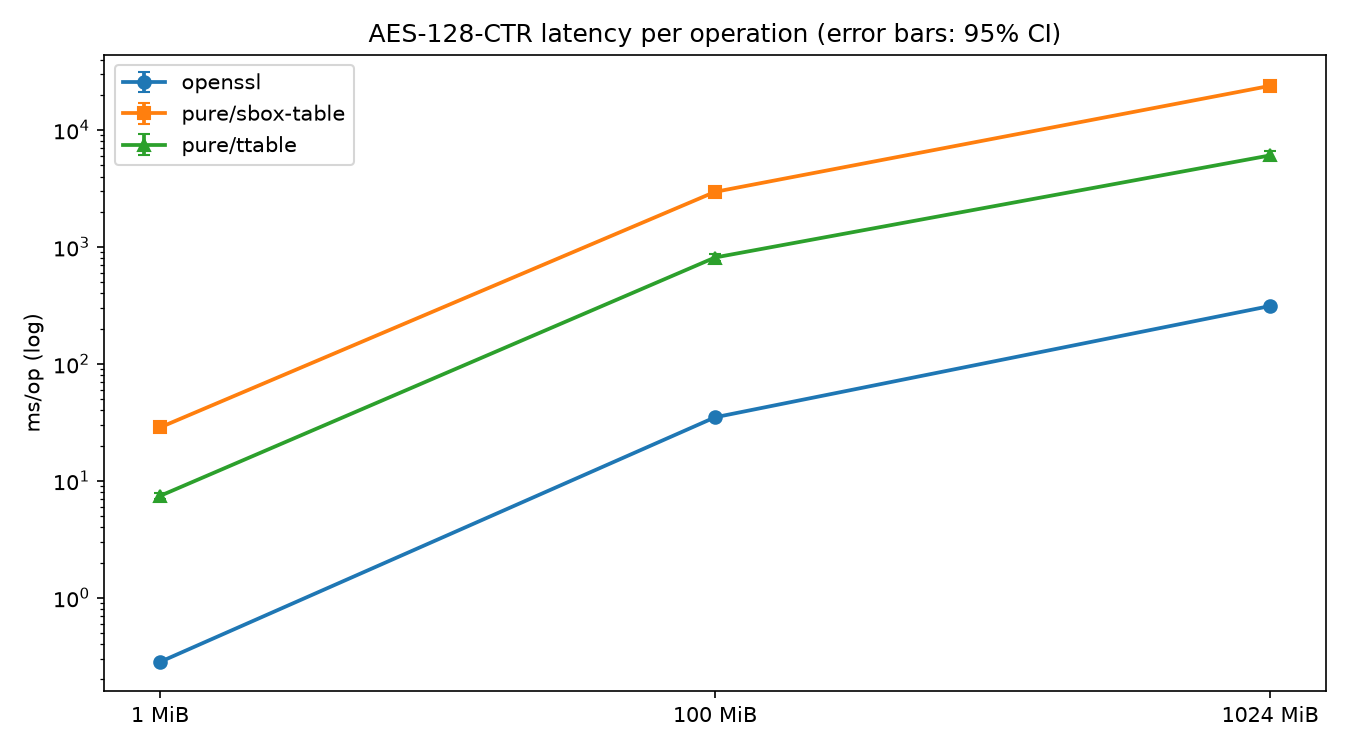
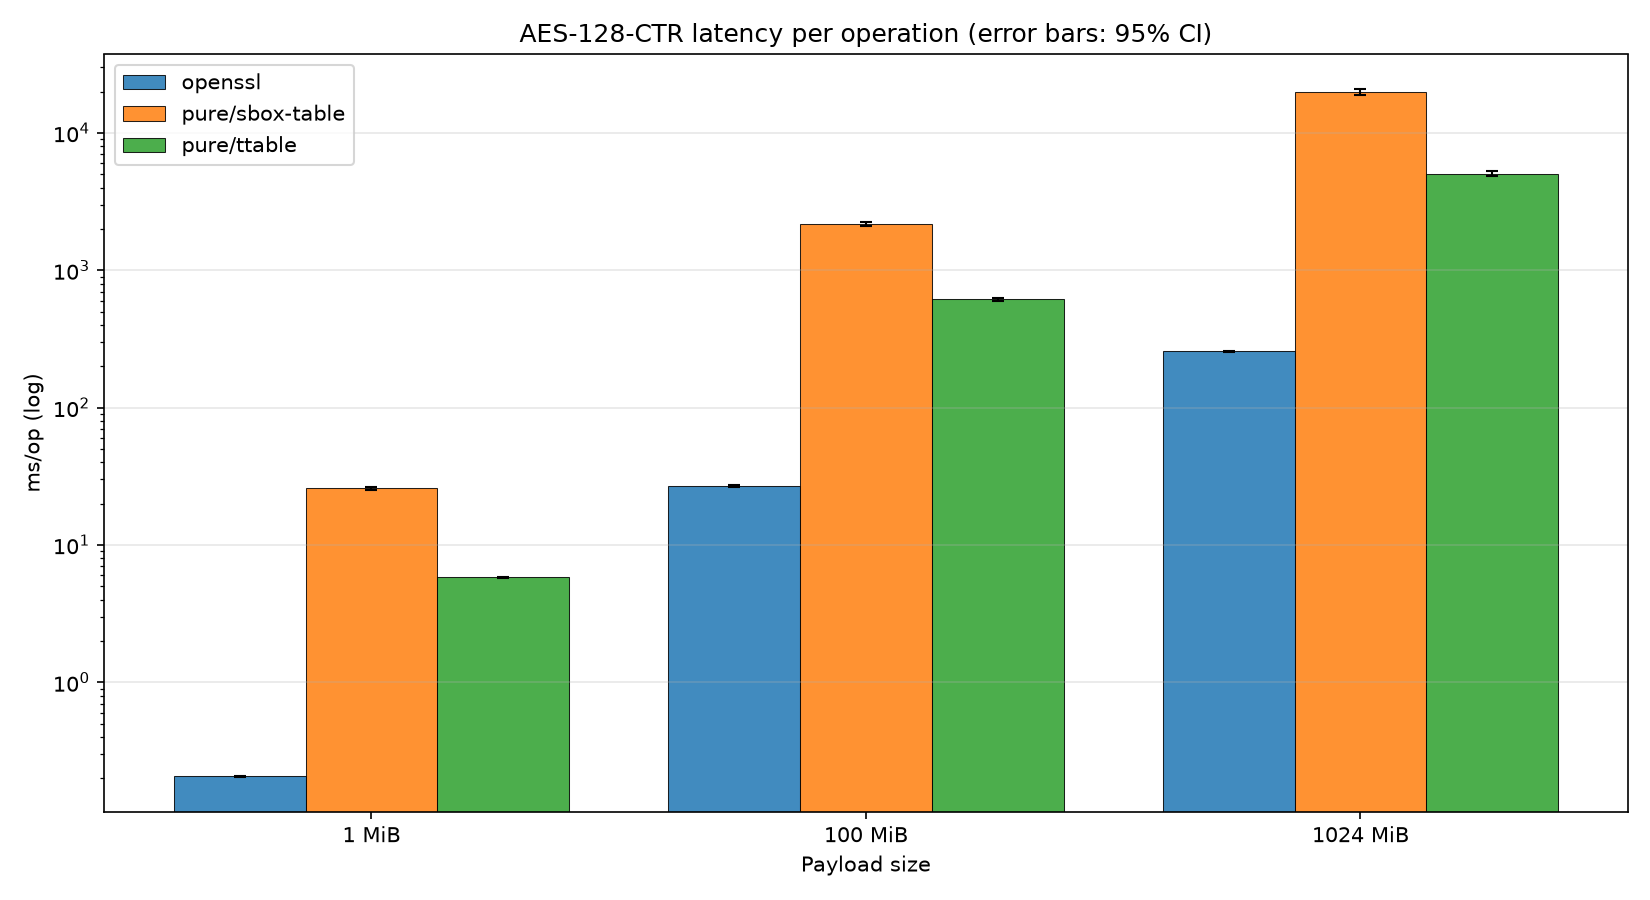
Upgrade bench

diff --git a/lab2/scripts/plot_bench.py b/lab2/scripts/plot_bench.py
@@ -1,44 +1,102 @@
 #!/usr/bin/env python3
-"""Plot throughput (MB/s, 95% CI error bars) and latency from `aestool bench --csv`.
-Usage: python3 scripts/plot_bench.py bench.csv [out_prefix]   (needs matplotlib)"""
+"""Plot throughput and latency from one or more `aestool bench --csv` files.
+
+Usage: python3 scripts/plot_bench.py bench.csv [other.csv ...]
+       [--out-prefix PREFIX]
+"""
+import argparse
 import csv
 import os
-import sys
 import matplotlib
 matplotlib.use("Agg")
 import matplotlib.pyplot as plt
 
-rows = list(csv.DictReader(open(sys.argv[1])))
-prefix = sys.argv[2] if len(sys.argv) > 2 else os.path.splitext(sys.argv[1])[0]
+parser = argparse.ArgumentParser()
+parser.add_argument("csv_files", nargs="+", help="benchmark CSV files")
+parser.add_argument("--out-prefix", help="output filename prefix")
+args = parser.parse_args()
+
+csv_files = args.csv_files
+prefix = args.out_prefix
+# Keep the previous ``plot_bench.py input.csv output_prefix`` form working.
+if prefix is None and len(csv_files) > 1 and not csv_files[-1].lower().endswith(".csv"):
+    prefix = csv_files.pop()
+if prefix is None:
+    prefix = os.path.splitext(csv_files[0])[0]
+
+rows = []
+for csv_file in csv_files:
+    with open(csv_file, newline="", encoding="utf-8-sig") as stream:
+        file_rows = list(csv.DictReader(stream))
+    # Keep files distinguishable when several CSVs contain the same backend names.
+    source = os.path.splitext(os.path.basename(csv_file))[0]
+    for row in file_rows:
+        row["_source"] = source
+        rows.append(row)
 prefix_dir = os.path.dirname(os.path.abspath(prefix))
 if prefix_dir:
     os.makedirs(prefix_dir, exist_ok=True)
 sizes = sorted({int(r["size_bytes"]) for r in rows})
-impls = sorted({r["implementation"] for r in rows})
+implementation_sources = {}
+for row in rows:
+    implementation_sources.setdefault(row["implementation"], {}).setdefault(
+        row["_source"], set()
+    ).add(int(row["size_bytes"]))
+
+series = []
+for implementation in sorted(implementation_sources):
+    sources = implementation_sources[implementation]
+    sizes_by_source = list(sources.values())
+    has_overlapping_sizes = any(
+        left.intersection(right)
+        for index, left in enumerate(sizes_by_source)
+        for right in sizes_by_source[index + 1:]
+    )
+    if has_overlapping_sizes:
+        series.extend(
+            (source, implementation, f"{source}: {implementation}")
+            for source in sorted(sources)
+        )
+    else:
+        series.append((None, implementation, implementation))
 label = lambda n: f"{n >> 20} MiB" if n >= 1 << 20 else f"{n >> 10} KiB"
 
 for metric, lo, hi, title, unit, fname in [
     ("mean_MBps", "ci95_lo_MBps", "ci95_hi_MBps", "AES-128-CTR encrypt throughput", "MB/s", "throughput"),
     ("mean_ms_per_op", "ci95_lo_ms", "ci95_hi_ms", "AES-128-CTR latency per operation", "ms/op", "latency")]:
-    fig, ax = plt.subplots(figsize=(9, 5))
-    for k, impl in enumerate(impls):
-        xs, ys, err = [], [], []
+    fig, ax = plt.subplots(figsize=(11, 6))
+    bar_width = 0.8 / max(len(series), 1)
+    for k, (source, impl, series_label) in enumerate(series):
+        xs, ys, err_low, err_high = [], [], [], []
         for i, s in enumerate(sizes):
-            m = [r for r in rows if r["implementation"] == impl and int(r["size_bytes"]) == s and r["direction"] == "encrypt"]
+            m = [
+                r for r in rows
+                if (source is None or r["_source"] == source)
+                and r["implementation"] == impl
+                and int(r["size_bytes"]) == s
+                and r["direction"] == "encrypt"
+            ]
             if m:
                 v, l, h = float(m[0][metric]), float(m[0][lo]), float(m[0][hi])
-                xs.append(i); ys.append(v); err.append(max(h - v, 0))
+                xs.append(i - 0.4 + (k + 0.5) * bar_width)
+                ys.append(v)
+                err_low.append(max(v - l, 0))
+                err_high.append(max(h - v, 0))
         if ys:
-            ax.errorbar(
+            ax.bar(
                 xs,
                 ys,
-                yerr=err,
-                marker=["o", "s", "^", "D", "v", "P"][k % 6],
-                linewidth=1.8,
-                capsize=3,
-                label=impl,
+                width=bar_width,
+                yerr=[err_low, err_high],
+                error_kw={"elinewidth": 1, "capsize": 3},
+                alpha=0.85,
+                edgecolor="black",
+                linewidth=0.5,
+                label=series_label,
             )
     ax.set_xticks(range(len(sizes))); ax.set_xticklabels([label(s) for s in sizes])
     ax.set_yscale("log"); ax.set_ylabel(unit + " (log)"); ax.set_title(title + " (error bars: 95% CI)")
+    ax.set_xlabel("Payload size")
+    ax.grid(axis="y", alpha=0.3)
     ax.legend(); fig.tight_layout(); fig.savefig(f"{prefix}_{fname}.png", dpi=150)
     print("wrote", f"{prefix}_{fname}.png")

diff --git a/lab2/scripts/compare.py b/lab2/scripts/compare.py
@@ -128,21 +128,30 @@ def write_comparison(rows: list[dict[str, object]], output: Path) -> None:
         writer.writerows(rows)
 
 
-def make_plot(rows: list[dict[str, object]], direction: str, metric: str, output: Path) -> None:
+def make_plot(
+    rows: list[dict[str, object]],
+    direction: str,
+    metric: str,
+    output: Path,
+    payload_size: int | None = None,
+) -> None:
     metric_title = "Throughput (MB/s)" if metric == "mean_MBps" else "Latency (ms/op)"
     ci_low = "ci95_lo_MBps" if metric == "mean_MBps" else "ci95_lo_ms"
     ci_high = "ci95_hi_MBps" if metric == "mean_MBps" else "ci95_hi_ms"
     grouped: dict[str, list[dict[str, object]]] = {}
     for row in rows:
-        if row["direction"] == direction:
+        if row["direction"] == direction and (
+            payload_size is None or int(row["size_bytes"]) == payload_size
+        ):
             grouped.setdefault(str(row["implementation"]), []).append(row)
     if not grouped:
         return
 
     fig, ax = plt.subplots(figsize=(11, 6))
+    implementations = sorted(grouped)
     sizes = sorted({int(row["size_bytes"]) for values in grouped.values() for row in values})
     x_positions = {size: index for index, size in enumerate(sizes)}
-    implementations = sorted(grouped)
+    implementation_positions = {name: index for index, name in enumerate(implementations)}
     for implementation in implementations:
         values = {int(row["size_bytes"]): row for row in grouped[implementation]}
         for platform, marker, linestyle in (("windows", "o", "-"), ("linux", "s", "--")):
@@ -157,7 +166,11 @@ def make_plot(rows: list[dict[str, object]], direction: str, metric: str, output
                 value = float(value)
                 low = float(row[f"{platform}_{ci_low}"])
                 high = float(row[f"{platform}_{ci_high}"])
-                xs.append(x_positions[size])
+                xs.append(
+                    implementation_positions[implementation]
+                    if payload_size is not None
+                    else x_positions[size]
+                )
                 ys.append(value)
                 errors.append(max(value - low, high - value, 0.0))
             if ys:
@@ -165,8 +178,15 @@ def make_plot(rows: list[dict[str, object]], direction: str, metric: str, output
                             linewidth=1.5, capsize=3, label=f"{implementation} / {platform}")
     ax.set_xticks(range(len(sizes)), [size_label(size) for size in sizes])
     ax.set_ylabel(metric_title)
-    ax.set_xlabel("Payload size")
-    ax.set_title(f"Windows/Linux benchmark comparison: {direction}")
+    if payload_size is None:
+        ax.set_xlabel("Payload size")
+        title = f"Windows/Linux benchmark comparison: {direction}"
+    else:
+        ax.set_xlabel("Implementation")
+        title = f"Windows/Linux benchmark comparison: {direction}, {size_label(payload_size)}"
+        ax.set_xticks(range(len(implementations)))
+        ax.set_xticklabels(implementations, rotation=25, ha="right")
+    ax.set_title(title)
     ax.grid(True, alpha=0.3)
     ax.legend()
     fig.tight_layout()
@@ -190,6 +210,16 @@ def main() -> int:
     for direction in ("encrypt", "decrypt"):
         make_plot(rows, direction, "mean_MBps", args.out_dir / f"throughput_{direction}.png")
         make_plot(rows, direction, "mean_ms_per_op", args.out_dir / f"latency_{direction}.png")
+        for size in sorted({int(row["size_bytes"]) for row in rows}):
+            suffix = size_label(size).replace(" ", "_")
+            make_plot(
+                rows, direction, "mean_MBps",
+                args.out_dir / f"throughput_{direction}_{suffix}.png", size,
+            )
+            make_plot(
+                rows, direction, "mean_ms_per_op",
+                args.out_dir / f"latency_{direction}_{suffix}.png", size,
+            )
     print(f"[OK] Wrote {comparison_csv}")
     print(f"[OK] Wrote comparison plots to {args.out_dir}")
     return 0

diff --git a/lab2/docs/windows.md b/lab2/docs/windows.md
@@ -175,8 +175,11 @@ Chuẩn bị để kết quả công bằng:
 - Luôn dùng build **Release**.
 
 ```bat
-aestool.exe bench --sizes 1MiB,100MiB --runs 30 --csv ..\Output\windows\bench\bench_windows.csv
-:: thêm 1GiB nếu đủ RAM:   --sizes 1MiB,100MiB,1GiB
+scripts\bench.bat
+:: Chạy 1MiB/100MiB/1GiB lần lượt 500/100/30 lần.
+:: Hoặc chạy thủ công:
+aestool.exe bench --sizes 1MiB --runs 500 --csv ..\Output\windows\bench\bench_windows_1MiB.csv
+:: thêm 100MiB và 1GiB với --runs 100 và --runs 30 tương ứng
 :: backend computed rất chậm (~1 MB/s), chỉ đo size nhỏ:
 aestool.exe bench --sizes 64KiB,1MiB --backends computed --runs 30
 ```
@@ -184,7 +187,7 @@ aestool.exe bench --sizes 64KiB,1MiB --backends computed --runs 30
 Vẽ biểu đồ (từ thư mục build):
 
 ```bat
-python ..\scripts\plot_bench.py ..\Output\windows\bench\bench_windows.csv ..\Output\windows\bench\plot_windows
+python ..\scripts\plot_bench.py ..\Output\windows\bench\bench_windows_1MiB.csv ..\Output\windows\bench\bench_windows_100MiB.csv --out-prefix ..\Output\windows\bench\plot_windows
 ```
 
 Phần header `bench` in ra (CPU, RAM, OS, compiler, flags) dùng để điền bảng phần cứng trong báo cáo. Trên Windows, CPU lấy từ biến môi trường; RAM hiển thị "unknown" nên bạn điền tay (Task Manager → Performance).

diff --git a/lab2/README.md b/lab2/README.md
@@ -92,6 +92,12 @@ auto-sized so a run lasts ≈0.25 s (cap 1000); use `--ops 1000` to follow the "
 (slow for large sizes). Run `bench --sizes 1MiB,100MiB` (add `1GiB` if memory allows) on each OS, then
 `python3 scripts/plot_bench.py bench.csv` for plots. Set the CPU governor to *performance* / Windows *High performance*,
 and fill the hardware table from the header the tool prints. `computed` is ~100x slower; restrict it to small sizes.
+For the full lab protocol, run `scripts/bench.sh` on Ubuntu or `scripts\bench.bat` on Windows;
+the scripts write separate 1MiB/100MiB/1GiB CSV files under `Output/<OS>/bench` using
+500/100/30 runs respectively. Multiple CSV files can be plotted together:
+`python3 scripts/plot_bench.py first.csv second.csv --out-prefix Output/combined`.
+`scripts/compare.py` keeps the combined plots and also writes one throughput/latency plot
+per payload size to `Output/compare`.
 
 ## Known limitations
 - Only AES-128 + CTR (AES-192/256, XTS, AES-NI are optional bonuses, not implemented).

diff --git a/lab2/docs/ubuntu.md b/lab2/docs/ubuntu.md
@@ -138,7 +138,7 @@ sudo cpupower frequency-set -g performance               # hoặc: sudo cpufreq-
 Chạy (từ thư mục build):
 
 ```bash
-./build_ubuntu_gcc/aestool bench --sizes 1MiB,100MiB,1GiB --runs 30 --csv Output/ubuntu/bench/bench_ubuntu.csv
+./scripts/bench.sh
 # thêm 1GiB nếu đủ RAM:  --sizes 1MiB,100MiB,1GiB
 # backend computed rất chậm (~1 MB/s), chỉ nên đo size nhỏ:
 ./aestool bench --sizes 64KiB,1MiB --backends computed --runs 30
@@ -147,7 +147,7 @@ Chạy (từ thư mục build):
 Vẽ biểu đồ:
 
 ```bash
-python3 scripts/plot_bench.py Output/ubuntu/bench/bench_ubuntu.csv Output/ubuntu/bench/plot_ubuntu
+python3 scripts/plot_bench.py Output/ubuntu/bench/bench_ubuntu_1MiB.csv Output/ubuntu/bench/bench_ubuntu_100MiB.csv --out-prefix Output/ubuntu/bench/plot_ubuntu
 # sinh ra plot_ubuntu_gcc_throughput.png và plot_ubuntu_gcc_latency.png
 ```
 
